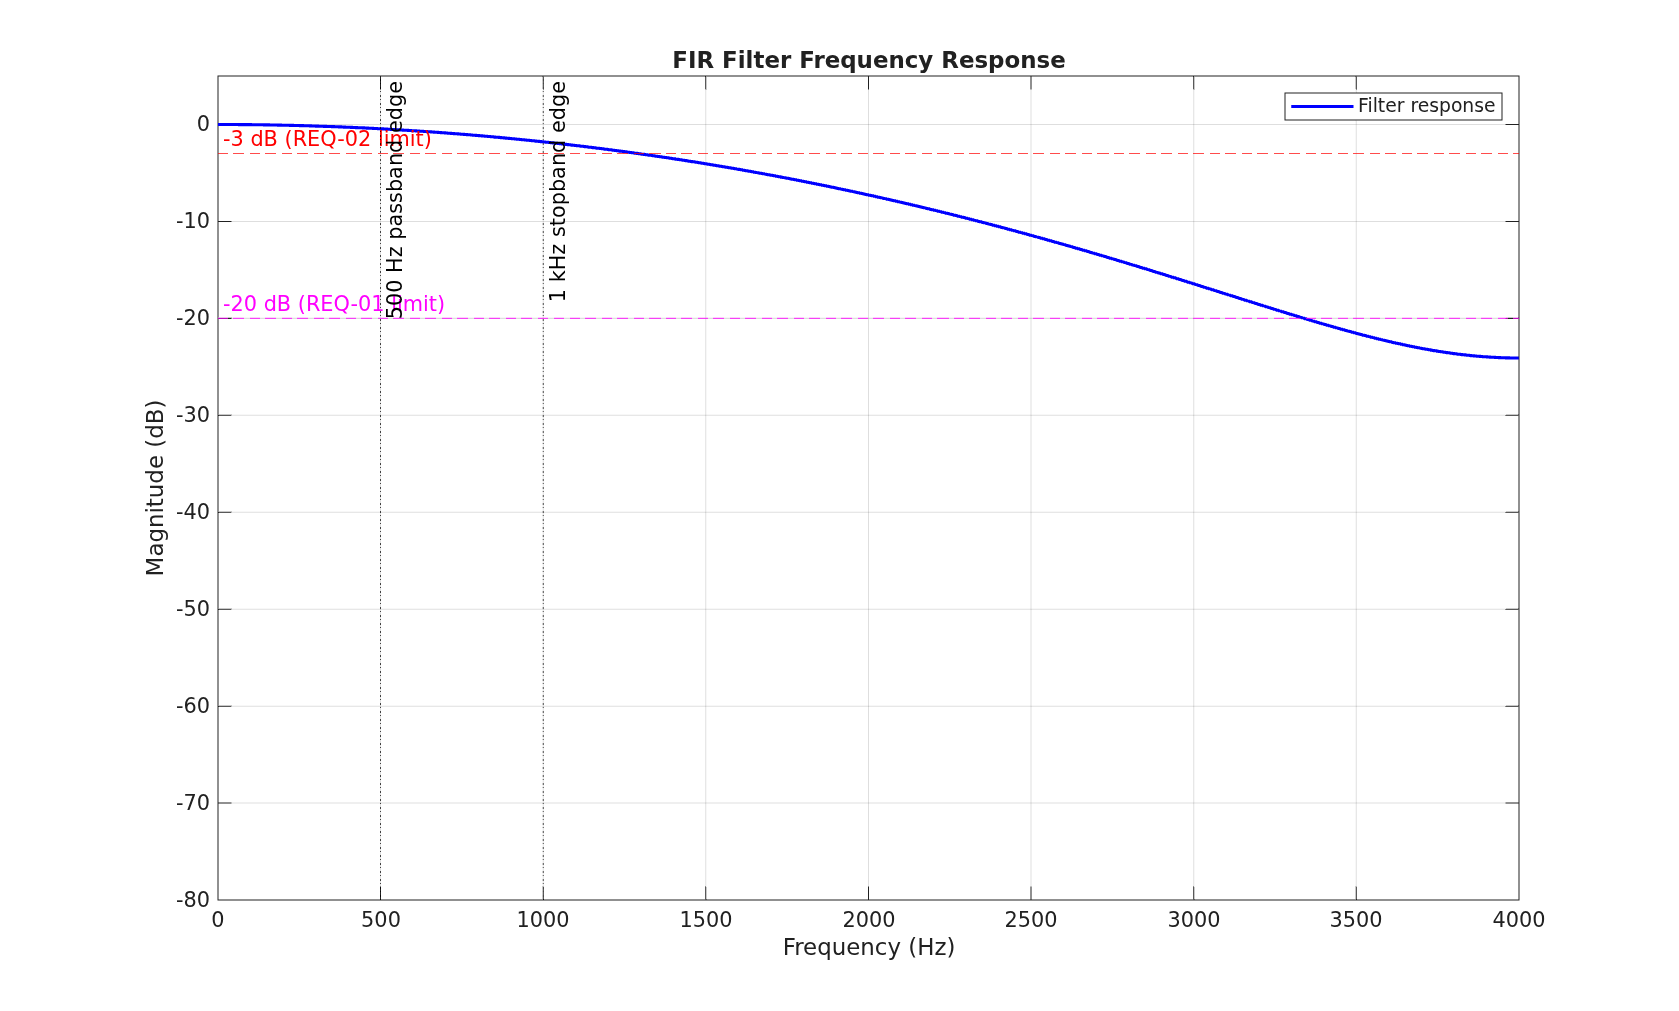
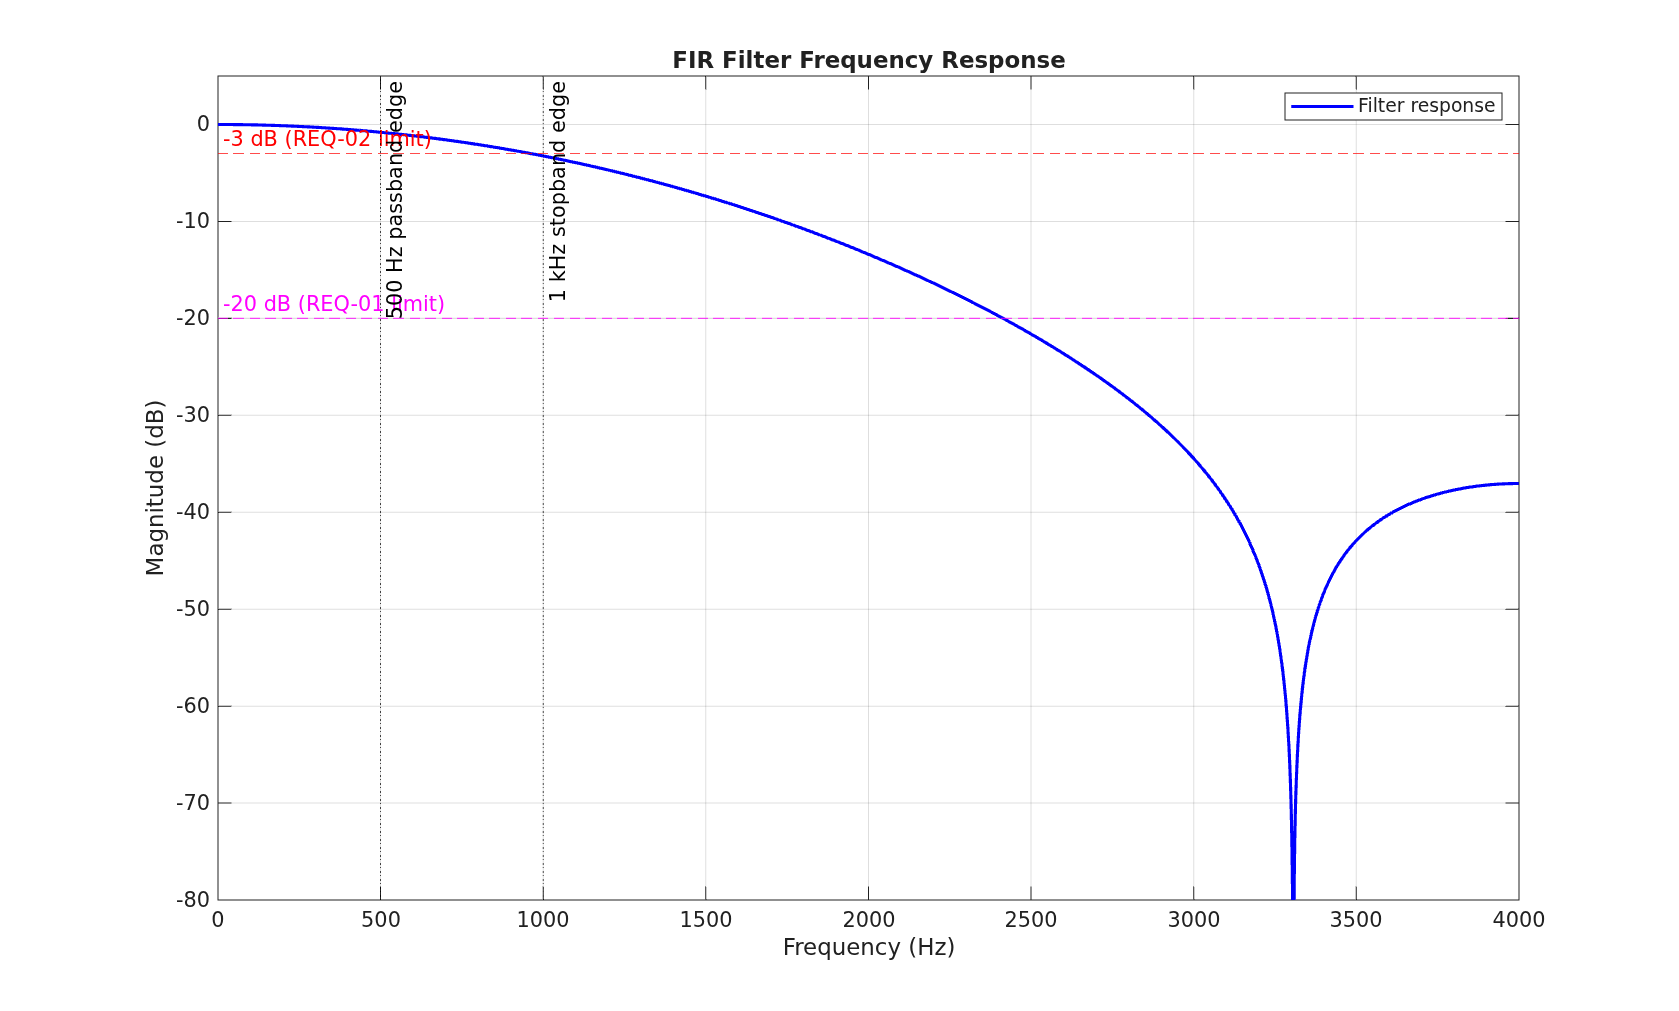
Second Frequency response curve

diff --git a/Designlog.md b/Designlog.md
@@ -6,45 +6,58 @@ This document tracks design iterations as filter parameters (tap count, cutoff f
 
 ## Iteration 1 — Initial Design (5 taps, Fc = 1000 Hz)
 
-**Date:** [Date]  
+**Date:** [07.06.2026]  
 **Parameters:**
 - N_taps = 5
 - Fc = 1000 Hz
 - Wn = 0.25
 
 **Results:**
-- REQ-01 (≥20 dB @ 2000 Hz): **[PASS/FAIL]** — Attenuation = [X] dB
-- REQ-02 (<3 dB @ 200 Hz): **[PASS/FAIL]** — Attenuation = [X] dB
+- REQ-01 (≥20 dB @ 2000 Hz): **FAIL** — Attenuation = [-7.27] dB
+- REQ-02 (<3 dB @ 200 Hz): **PASS** — Attenuation = [-0.07] dB
 - REQ-04 (latency ≤ 5 cycles): **PASS** (by design — 5 taps = 5 cycles)
 
 **Decision:**
-- [Continue to VHDL / Adjust parameters]
-- [Reason if adjusted]
+- Adjusting parameters: N_filter --> 7
+- HF attenuation not sufficient (REQ-01)
 
 **Artifacts:**
 - `docs/waveforms/frequency_response_iter1.png`
-- Coefficients: h = [?, ?, ?, ?, ?]
+- Coefficients: h = 
+[ h(1) = 805
+  h(2) = 7680
+  h(3) = 15798
+  h(4) = 7680
+  h(5) = 805]
 
 ---
 
-## Iteration 2 — [Description if needed]
+## Iteration 2 — [5 taps, Fc = 1000 Hz]
 
-**Date:** [Date]  
+**Date:** [09.06.2026]  
 **Parameters:**
-- N_taps = [X]
-- Fc = [X] Hz
-- Wn = [X]
+- N_taps = [7]
+- Fc = [1000] Hz
+- Wn = [Wn = 0.25]
 
 **Results:**
-- REQ-01: **[PASS/FAIL]** — Attenuation = [X] dB
-- REQ-02: **[PASS/FAIL]** — Attenuation = [X] dB
+- REQ-01: **FAIL** — Attenuation = [-13.39] dB
+- REQ-02: **PASS** — Attenuation = [-0.13] dB
 
 **Decision:**
-- [Continue / Adjust]
+- Adjusting parameters: N_taps --> 9
+- HF attenuation not sufficient (REQ-01)
 
 **Artifacts:**
 - `docs/waveforms/frequency_response_iter2.png`
-- Coefficients: h = [?, ?, ?, ?, ?]
+- Coefficients: h = 
+[ h(1) = 278
+  h(2) = 2286
+  h(3) = 8029
+  h(4) = 11582
+  h(5) = 8029
+  h(6) = 2286
+  h(7) = 278]
 
 ---
 